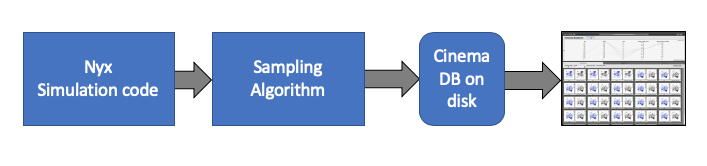
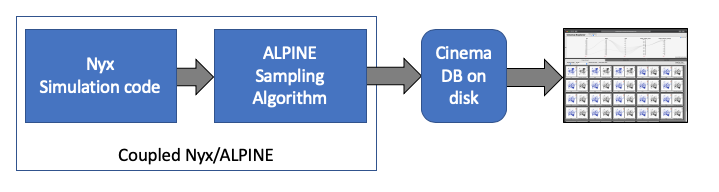
updating readme

diff --git a/README.md b/README.md
@@ -3,6 +3,7 @@
 <p align="center">
     <img src="img/diagram.png"/>
 </p>
+<p align="center">Diagram of the workflow in this example.</p>
 
 
 This is a demonstration of an end-to-end pipeline that performs GPU-enabled distributed environment in situ data analysis and visualization using the ECP ExaSky application Nyx. Using ECP ALPINE in situ infrastructure [ASCENT](https://github.com/Alpine-DAV/ascent), the pipeline accesses the appropriate Nyx simulation data and performs data sub-sampling via ALPINE data-driven sampling algorithm. The adaptive spatial sampling algorithm prioritizes rare data values while selecting sample points. As a result, the important features in the data such as Halos in Nyx simulation are preserved. Finally, a Cinema database is generated in situ using ALPINE ASCENT containing data artifacts as renderings of the output sub-sampled data.
